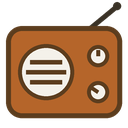
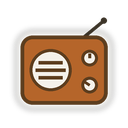
update plugin ID (#2)

diff --git a/docs/index.html b/docs/index.html
@@ -98,8 +98,7 @@
       <img src="icon.svg" alt="Radio Static icon: a small retro radio">
       <h1>Radio Static</h1>
       <p class="tagline">Play YouTube through a 1950s radio.</p>
-      <!-- PLACEHOLDER: replace with the Chrome Web Store listing URL -->
-      <a class="cta" href="STORE_URL">Add to Chrome — free</a>
+      <a class="cta" href="https://chromewebstore.google.com/detail/keaakjjjgohmnnoidpokbinclepkjgii">Add to Chrome — free</a>
       <span class="cta-sub">no account · no data collected · open source</span>
     </header>
 

diff --git a/README.md b/README.md
@@ -5,6 +5,10 @@ static, crackle and AGC squash — live, in the browser. The effect chain is a
 Web Audio port of a Python reference implementation, calibrated against
 spectral measurements of a real vintage radio.
 
+## Install
+
+**[Add to Chrome from the Web Store](https://chromewebstore.google.com/detail/keaakjjjgohmnnoidpokbinclepkjgii)** (free).
+
 ## Install (development)
 
 1. Open `chrome://extensions`